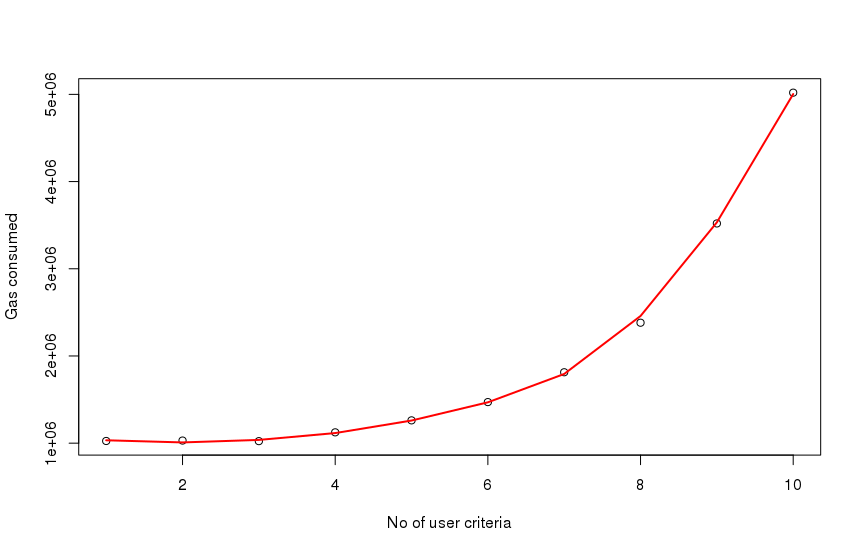
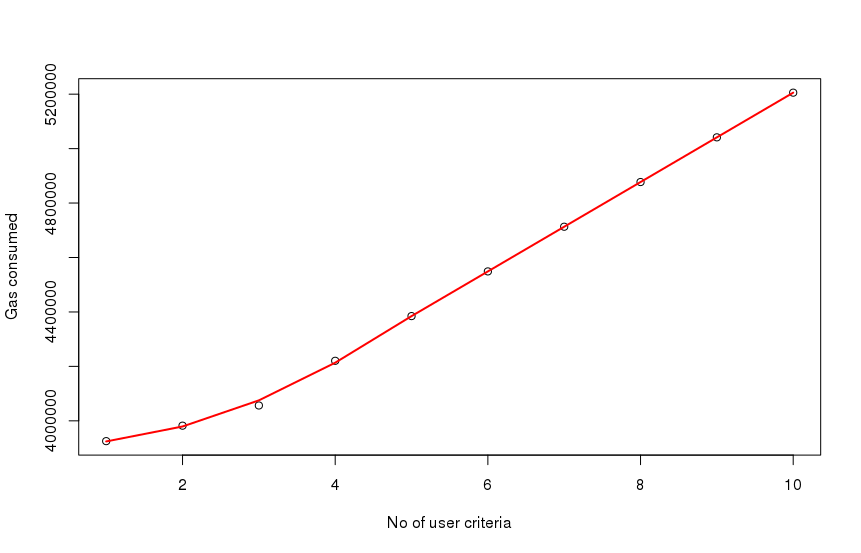
New experiment using the optimized contract

diff --git a/solidity/test/hedgecontract1.js b/solidity/test/hedgecontract1.js
@@ -24,13 +24,13 @@ contract('HedgeContract1', function(accounts) {
     });
 
     it("increasing users", function() {
-        var userScenarios = 1;
+        var userScenarios = 20;
 
         // Fix investment
         var investment = web3.toWei(2, "ether");
 
         // Fix black list
-        var blackList = [1,2,3];
+        var blackList = [4,5,6];
 
         var hc = HedgeContract1.deployed();
         var initialState = web3.evm.snapshot();
@@ -38,7 +38,7 @@ contract('HedgeContract1', function(accounts) {
         var userNoRange = Array.from(Array(userScenarios)).map((e, i) => i + 1);
         eachSeries(userNoRange, function(noOfUsers) {
             return investmentGasConsumption(noOfUsers, hc, accounts, investment, blackList, initialState).then(function(totalGas) {
-                // console.log(totalGas);
+                console.log(totalGas);
                 return;
             });
         });
@@ -51,25 +51,24 @@ contract('HedgeContract1', function(accounts) {
     //     var investment = web3.toWei(2, "ether");
     //
     //     // Fix no users
-    //     var noOfUsers = 5;
+    //     var noOfUsers = 10;
     //
     //     var hc = HedgeContract1.deployed();
     //     var initialState = web3.evm.snapshot();
     //
     //     var blackListCompanies = [blackListScenarios];
+    //     var max = 48;
+    //     var min = 4;
     //     for (var i = 0; i < blackListScenarios; i++) {
-    //         var str = '';
+    //         var str = [];
     //         for (var j = 0; j < i + 1; j++) {
-    //             str += Math.random().toString(36).substring(2, 5);
-    //
-    //             if (j != i) {
-    //                 str += ',';
-    //             }
+    //             str.push(Math.floor(Math.random() * (max - min + 1)) + min);
     //         }
     //         blackListCompanies[i] = str;
     //     }
     //
     //     eachSeries(blackListCompanies, function(blackList) {
+    //       // console.log(blackList);
     //         return investmentGasConsumption(noOfUsers, hc, accounts, investment, blackList, initialState).then(function(totalGas) {
     //             console.log(totalGas);
     //             return;
@@ -98,7 +97,7 @@ function investmentGasConsumption(maxUsers, hc, accounts, investment, blackList,
             }
 
             Promise.all(promises).then(function() {
-                makeInvestmentStrategy(hc, [4,5,6], investmentOffer, gasVal, investAgentAddress) // Offer by invest agent
+                makeInvestmentStrategy(hc, [1,2,3], investmentOffer, gasVal, investAgentAddress) // Offer by invest agent
                     .then(withdrawBuyAgent(hc, gasVal, buyAgentAddress)) // Withdraw it - buy agent
                     .then(sendBuyAgent(hc, 1, 1, 1, 1, investmentOffer, gasVal, buyAgentAddress)) // Return investment - buy agent
                     .then(function() {
@@ -113,9 +112,9 @@ function investmentGasConsumption(maxUsers, hc, accounts, investment, blackList,
                             for (var i = startBlockNumber + 1; i <= web3.eth.blockNumber; i++) {
                                 totalGas += outpusGas(i);
                             }
-                            gasBreakdown(startBlockNumber + 1, web3.eth.blockNumber, maxUsers);
+                            // gasBreakdown(startBlockNumber + 1, web3.eth.blockNumber, maxUsers);
                             web3.evm.revert(initialState);
-                            resolve(maxUsers + ',' + totalGas + ',' + blackList);
+                            resolve(maxUsers + ',' + totalGas + ',' + blackList.length);
                         });
                     })
                     .catch(function(err) {
